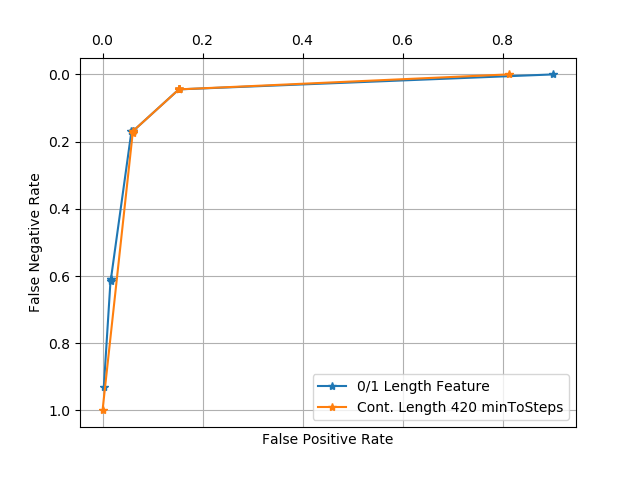
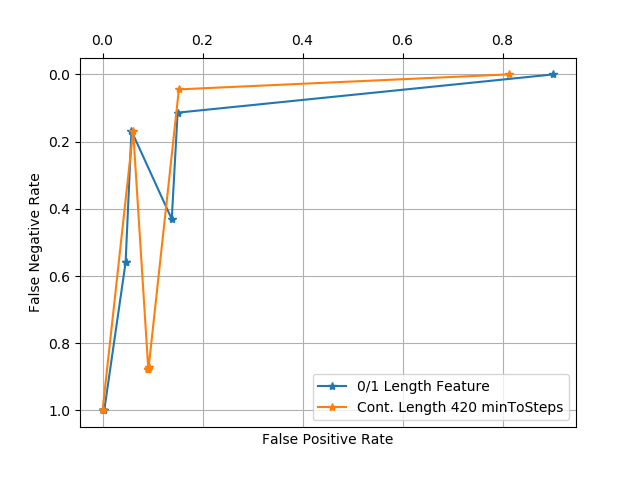
UPDATED: predict_w_threshold algorithm.

Changed region(s): [[0.1562, 0.1875, 0.4062, 0.8438], [0.4062, 0.1562, 0.8438, 0.2188]]

diff --git a/Assignment3/Code/DecisionTreeModel.py b/Assignment3/Code/DecisionTreeModel.py
@@ -310,7 +310,8 @@ def predict_w_threshold(node, example, threshold=0.5):
     Predict the value for an example given a tree(/node):
          {'index': feature_index, 'gain': max(i_gails), 'groups': groups,
                 'num_label_1': groups[0][1].count(1),
-                'num_label_0': groups[0][1].count(0)}
+                'num_label_0': groups[0][1].count(0),
+          'threshold': 0.5 or midpoint of features}
     :param node:
     :param row:
     :return:
@@ -319,11 +320,15 @@ def predict_w_threshold(node, example, threshold=0.5):
         if isinstance(node['left'], dict):
             return predict_w_threshold(node['left'], example, threshold)
         else:
+            if node['left'] == 1:
+                return int(node['num_label_1'] / (node['num_label_1'] + node['num_label_0']) < threshold)
             return int(node['num_label_0'] / (node['num_label_1'] + node['num_label_0']) < threshold)
     else:
         if isinstance(node['right'], dict):
             return predict_w_threshold(node['right'], example, threshold)
         else:
+            if node['right'] == 1:
+                return int(node['num_label_1'] / (node['num_label_1'] + node['num_label_0']) < threshold)
             return int(node['num_label_0'] / (node['num_label_1'] + node['num_label_0']) < threshold)
 
 

diff --git a/Assignment3/Code/prob2_part2_roc_curves.py b/Assignment3/Code/prob2_part2_roc_curves.py
@@ -68,7 +68,6 @@ def compare_roc_curves_by_min_to_stop(xTrainRaw, yTrainRaw, xTestRaw, yTestRaw,
                                 min_to_step=min_to_step,
                                 threshold=threshold,
                                 featurize=utils.FeaturizeWNumericFeature)
-            print(ev)
             cont_length_fpr_fnr.append((ev.fpr, ev.fnr))
         graphs.append(sorted(cont_length_fpr_fnr))
         legends.append('Cont. Length {} minToSteps'.format(min_to_step))
@@ -95,7 +94,7 @@ if __name__ == '__main__':
 
     start = 0.01
     end = 1
-    N = 10
+    N = 1000
     thresholds = [x / N for x in range(N + 1)]
     compare_roc_curves_by_min_to_stop(xTrainRaw, yTrainRaw, xTestRaw, yTestRaw,
                                       thresholds,
